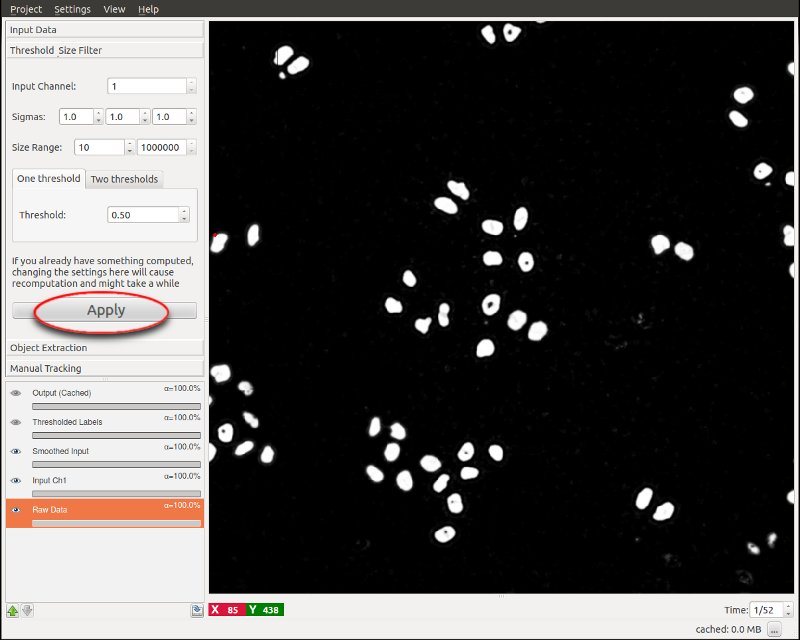
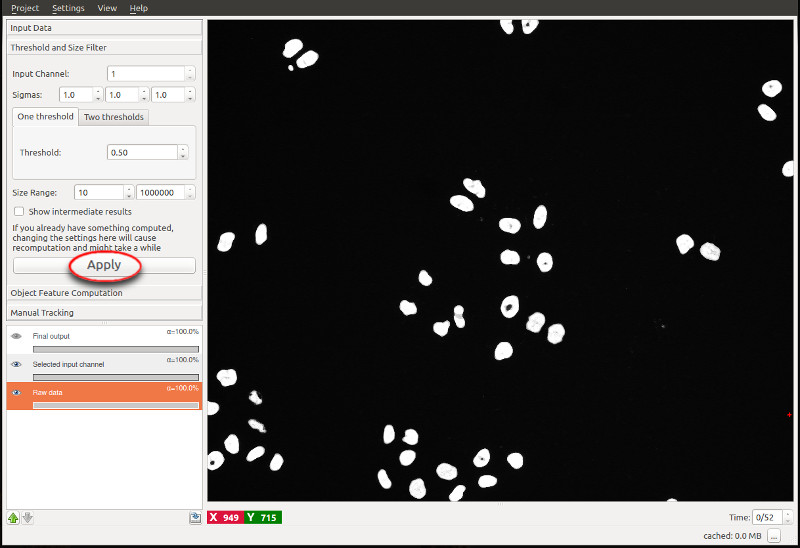
adapted manual tracking documentation to new appearance

diff --git a/documentation/manualTracking/manualTracking.md b/documentation/manualTracking/manualTracking.md
@@ -39,12 +39,7 @@ and 3D+time data, which are both provided in the
 
 ## Workflow Components
 
-To date, this workflow expects the image sequence to be loaded as a dataset
-in a hdf5 files with the axis order `txy(z)c` (time, space, channel). 
-The workflow will soon also support image sequences such as 
-tif or png.
-
-Before starting the Manual Tracking workflow, the data has the be segmented into fore- and 
+Before starting the Manual Tracking workflow, the data has to be segmented into fore- and 
 background. The tutorial uses the dataset 
 `mitocheck_94570_2D+t_01-53.h5` kindly provided by the
 <a href="http://www.mitocheck.org">Mitocheck project</a>,
@@ -83,6 +78,11 @@ need to be specified in the respective tab. In particular, the file
 is added as **Raw Data** and the dataset in
 `mitocheck_94570_2D+t_01-53_results.h5`
 is loaded as **Prediction Maps**.
+
+The tracking workflow expects the image sequence to be loaded as a time-series data containing a time axis;
+if the time axis is not automatically detected (as in hdf5-files), the axes tags may be modified in a dialog 
+when loading the data.
+
 
 ![](./fig/05_load-raw.png)
 
@@ -263,6 +263,27 @@ user. The `Divisions` dataset contains the list of divisions in the format
 
         track_id_parent track_id_child1 track_id_child2 time_parent
 
+
+#### Shortcuts
+To most efficiently use the features described above, there are multiple shortcuts available (a complete documentation
+of all available shortcuts can be displayed/modified in `Settings -> Keyboard Shortcuts`):
+
+| Shortcut       | Description   
+|:--------------:| -----------------------------
+| `Shift + Scroll` | Scroll image through time (if available) 
+| `Ctrl + Scroll`| Zoom
+| `s`            | Start new track
+| `d`            | Mark division event
+| `f`            | Mark false detection
+| `q`            | Increment active track ID
+| `a`            | Decrement active track ID
+| `g`            | Go to next unlabeled object
+| `e`            | Toggle manual tracking layer visibility
+| `r`            | Toggle objects layer visibility
+
+
+
+
 ## Manual Tracking in 3D+time Data
 
 One strength of this manual tracking workflow compared to similar programs available on the web is that 
@@ -273,10 +294,10 @@ orthoviews with the respective track color.
 
 To get started with 3D+time data, we provide example data in the
 <a href="../../Download/">Download</a> section. The file 
-`300-349_demo.h5` shows 50 time steps of a small excerpt of a developing *Drosophila* embryo, kindly
+`drosophila_00-49.h5` shows 50 time steps of a small excerpt of a developing *Drosophila* embryo, kindly
 provided by the 
 <a href="http://www.embl.de/research/units/cbb/hufnagel/">Hufnagel Group at EMBL Heidelberg</a>.
-A sample segmentation of cell nuclei in this dataset is available in `300-349_demo_results.h5`.
+A sample segmentation of cell nuclei in this dataset is available in `drosophila_00-49_results.h5`.
 
 For a manual tracking, the steps of the 2D+time tutorial above may be followed analogously.
 
